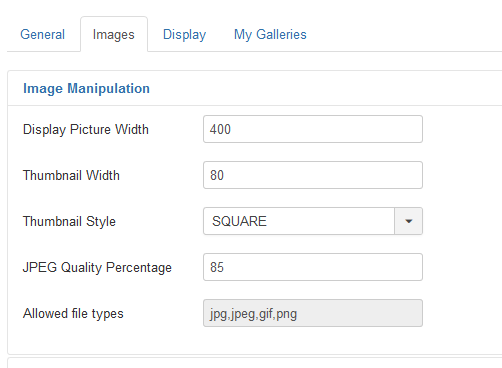
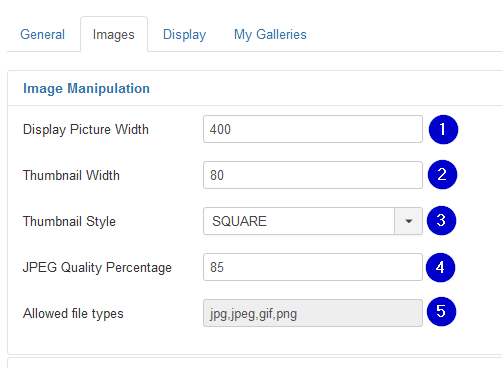
Next step for config doku

Changed region(s): [[0.8367, 0.2989, 0.9263, 0.6576], [0.8367, 0.8071, 0.9263, 0.8967], [0.8367, 0.6875, 0.9263, 0.7772]]

diff --git a/Documentation/Config/config.md b/Documentation/Config/config.md
@@ -35,58 +35,77 @@ All gallery names and item titles must be unique
 
 ## Images
 
-### Images.Image Manipulation
-Display Picture Width
-Thumbnail Width
-Thumbnail Style
-JPEG Quality Percentage
-Allowed file types
-### Images.Image upload
-FTP Path:
-Use IPTC information
-Yes No
-Default state for uploaded images
-Preselect 'One gallery for all images'
-Default Yes No
-Preselect latest gallery
-Yes No
-### Images.Graphics Library
-Graphics Library
-ImageMagick Path
-Netpbm Path
-Video converter path
-Video converter parameters
-Thumbnail extraction parameters
-Video output type
-### Images.Image Storage
-Keep original image
-Yes No
-Original Image Path
-Display Image Path
-Thumb Path
-### Images.Comments
-Use CAPTCHA check, in comment form
-Yes No
-CAPTCHA type
-CAPTCHA image height in px
-(width is 2.7*height)
-CAPTCHA perturbation
-(1.0 is high, the higher the more distorted; 0.75 is fine)
-Number of lines to distort the CAPTCHA image with
-CAPTCHA background color
-(hexadecimal code, e.g. #0099CC)
-Textcolor
-(hexadecimal code, e.g. #EAEAEA)
-Color of lines
-(hexadecimal code, e.g. #0000CC)
-Alfanumeric CAPTCHA is case sensitive
-recommended setting: No)
-Yes No
-Characters to use for alfanumeric CAPTCHA
-Length of code for alfanumerc CAPTCHA
-### Images.Voting
-User can only vote once (cookie based)
+#### Images.Image Manipulation
 
+link:
+
+(1) Display Picture Width
+
+(2) Thumbnail Width
+
+(3) Thumbnail Style
+
+(4) JPEG Quality Percentage
+
+(5) Allowed file types
+
+#### Images.Image upload
+
+link:
+
+(1) FTP Path:
+
+(2) Use IPTC information Yes No
+
+(3) Default state for uploaded images
+
+(4) Preselect 'One gallery for all images', Default Yes No
+
+(5) Preselect latest gallery Yes No
+
+#### Images.Graphics Library
+
+link:
+
+(1) Graphics Library
+(2) ImageMagick Path
+(3) Netpbm Path
+(4) Video converter path
+(5) Video converter parameters
+(6) Thumbnail extraction parameters
+(7) Video output type
+
+#### Images.Image Storage
+
+link:
+
+(1) Keep original image Yes No
+(2) Original Image Path
+(3) Display Image Path
+(4) Thumb Path
+
+#### Images.Comments
+
+link:
+
+(1) Use CAPTCHA check, in comment form Yes No
+(2) CAPTCHA type
+(3) CAPTCHA image height in px (width is 2.7*height)
+(4) CAPTCHA perturbation (1.0 is high, the higher the more distorted; 0.75 is fine)
+(5) Number of lines to distort the CAPTCHA image with
+(6) CAPTCHA background color (hexadecimal code, e.g. #0099CC)
+(7) Textcolor (hexadecimal code, e.g. #EAEAEA)
+(8) Color of lines (hexadecimal code, e.g. #0000CC)
+(9) Alfanumeric CAPTCHA is case sensitive recommended setting: No) Yes No
+(10) Characters to use for alfanumeric CAPTCHA
+(11) Length of code for alfanumerc CAPTCHA
+
+#### Images.Voting
+
+link:
+
+(1) User can only vote once (cookie based) Yes No
+(2) Cookie prefix rsgvoting_
 
 (1) .
 
@@ -106,64 +125,67 @@ User can only vote once (cookie based)
 
 ## Display
 
-### Front Page
-Display Search
-Yes No
-Display Random
-Yes No
-Display Latest
-Yes No
-Display Branding
-Yes No
-Display Downloadlink
-Yes No
-Display Status Icons
-Yes No
-Display gallery limitbox
-Default number of galleries on frontpage
-Display Slideshow
-Yes No
-Select slideshow
-Display Owner Information
-Yes No
-Display number of items in gallery
-Yes No
-Include items in child galleries when displaying number of items in a gallery
-Yes No
-Display creation date
-Yes No
-### Image Display
-Display Slideshow in item view
-Yes No
-Popup style
-Display Description
-Yes No
-Display Hits
-Yes No
-Display Voting
-Yes No
-Display Comments
-Yes No
-### Image order
-Order images by
-Order direction
-### EXIF settings
-Display EXIF Data
-Yes No
-Select EXIF tags to display
+#### Front Page
 
-### Gallery View
-Thumbnail Style:
-Use float for variable width templates.
-Direction (only works for float)
-Number of Thumbnail Columns (only for table)
-Thumbnails per Page
-Show image name below thumbnail
-Yes No
-Navigation bar display
-Display Slideshow in gallery view
-Yes No
-### Image Watermark
+link:
+
+(1) Display Search Yes No
+(2) Display Random Yes No
+(3) Display Latest Yes No
+(4) Display Branding Yes No
+(5) Display Downloadlink Yes No
+(6) Display Status Icons Yes No
+(7) Display gallery limitbox
+(8) Default number of galleries on frontpage
+(9) Display Slideshow Yes No
+(10) Select slideshow
+(11) Display Owner Information Yes No
+(12) Display number of items in gallery Yes No
+(13) Include items in child galleries when displaying number of items in a gallery Yes No
+(14) Display creation date Yes No
+
+#### Image Display
+
+link:
+
+(1) Display Slideshow in item view Yes No
+(2) Popup style
+(3) Display Description Yes No
+(4) Display Hits Yes No
+(5) Display Voting Yes No
+(6) Display Comments Yes No
+
+#### Image order
+
+link:
+
+(1) Order images by
+(2) Order direction
+
+#### EXIF settings
+
+link:
+
+(1) Display EXIF Data Yes No
+(2) Select EXIF tags to display
+
+#### Gallery View
+
+link:
+
+(1) Thumbnail Style:
+(2) Use float for variable width templates.
+(3) Direction (only works for float)
+(4) Number of Thumbnail Columns (only for table)
+(5) Thumbnails per Page
+(6) Show image name below thumbnail Yes No
+(7) Navigation bar display
+(8) Display Slideshow in gallery view Yes No
+
+#### Image Watermark
+
+link:
+
 Display Watermark
 
 (1) .
@@ -184,17 +206,16 @@ Display Watermark
 
 ## My Galleries
 
+link:
 
-### Settings My Galleries
-Show My Galleries
-Yes No
-Show only items owned by the logged in user in My Galleries
-Yes No
-Show only galleries owned by the logged in user in My Galleries
-Yes No
-### Image upload
-Maximum number of galleries a user can have
-Max numbers of pictures a user can have
+#### Settings My Galleries
+(1) Show My Galleries Yes No
+(2) Show only items owned by the logged in user in My Galleries Yes No
+(3) Show only galleries owned by the logged in user in My Galleries Yes No
+
+#### Image upload
+(1) Maximum number of galleries a user can have
+(2) Max numbers of pictures a user can have
 
 (1) .
 
